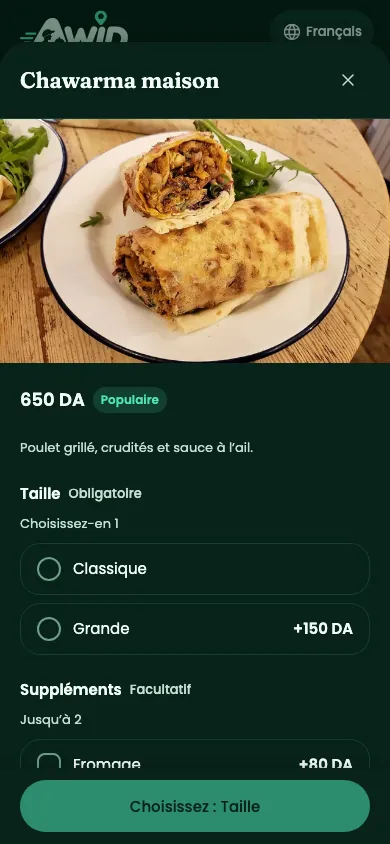
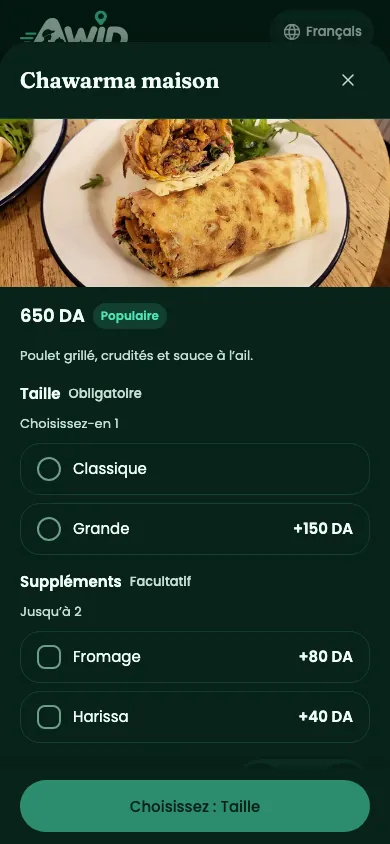
design: improve mobile ordering and expand pilot comparisons

diff --git a/apps/web/test/checkout-view.test.tsx b/apps/web/test/checkout-view.test.tsx
@@ -44,6 +44,7 @@ test("[CUS-13] step 1 shows progress, the fulfilment switch and saved addresses"
   // The step button carries the total, and desktop keeps the order summary beside the step.
   expect(html).toMatch(/>Continuer · 3\s100\sDA</u);
   expect(html).toContain('class="checkout-aside"');
+  expect(html).not.toContain('class="checkout-cash"');
 });
 
 test("[CUS-13] pickup checkout names the order mode in the page heading", () => {
@@ -72,6 +73,13 @@ test("[CUS-13] payment repeats the chosen address and scheduled time", () => {
   expect(html).toContain("12 rue Didouche Mourad, Alger Centre");
   expect(html).toContain("Pour quand ?");
   expect(html).toContain("Dès que possible");
+});
+
+test("[CUS-14] payment presents cash before the receipt in reading order", () => {
+  for (const locale of ["ar", "fr"] as const) {
+    const html = render(locale, <CheckoutSample mode="ready" locale={locale} initialView="3" />);
+    expect(html).toMatch(/class="checkout-cash"[\s\S]+class="checkout-receipt"/u);
+  }
 });
 
 test("[ORD-01] the confirmed moment shows the order code and links to tracking", () => {

diff --git a/apps/web/src/checkout/checkout-payment.tsx b/apps/web/src/checkout/checkout-payment.tsx
@@ -229,9 +229,8 @@ export function PaymentStep({ state, locale }: { state: CheckoutState; locale: L
         });
   return (
     <div className="checkout-step checkout-payment-step">
-      <h2>{translate("summary")}</h2>
       <section className="checkout-recap" aria-label={translate("recapTitle")}>
-        <h3>{translate("recapTitle")}</h3>
+        <h2>{translate("recapTitle")}</h2>
         <p>
           <Icon name={state.fulfilment === "pickup" ? "store" : "pin"} size={18} />
           <span>
@@ -253,12 +252,13 @@ export function PaymentStep({ state, locale }: { state: CheckoutState; locale: L
           </span>
         </p>
       </section>
+      <ContactPhone contact={state.contact} />
+      <CashCard state={state} locale={locale} />
+      <h2>{translate("summary")}</h2>
       <div className="checkout-receipt">
         <OrderLines state={state} locale={locale} />
         <PromoField state={state} />
       </div>
-      <ContactPhone contact={state.contact} />
-      <CashCard state={state} locale={locale} />
     </div>
   );
 }

diff --git a/apps/web/src/admin/gallery/before-after.tsx b/apps/web/src/admin/gallery/before-after.tsx
@@ -4,12 +4,22 @@ import type { Locale } from "@zaafran/i18n/locales";
 const screens = [
   "landing",
   "discover",
+  "search",
   "restaurant",
   "dish",
   "cart",
   "checkout",
   "payment",
   "account",
+  "confirmed",
+  "tracking",
+  "pickup-tracking",
+  "rating",
+  "orders",
+  "sign-in",
+  "merchant",
+  "courier",
+  "admin",
 ] as const;
 
 function variantsFor(locale: Locale) {

diff --git a/apps/web/src/checkout/checkout.css b/apps/web/src/checkout/checkout.css
@@ -139,7 +139,7 @@
   gap: var(--space-16);
 }
 
-.checkout-step h2,
+.checkout-step > h2,
 .checkout-aside h2 {
   font: var(--font-weight-h2) var(--font-size-h2) / var(--line-height-h2) var(--font-display);
 }
@@ -158,7 +158,7 @@
   box-shadow: var(--shadow-e1);
 }
 
-.checkout-recap h3 {
+.checkout-recap h2 {
   margin: 0;
   color: var(--color-text-2);
   font-size: var(--font-size-caption);

diff --git a/apps/web/src/restaurant/restaurant.css b/apps/web/src/restaurant/restaurant.css
@@ -482,6 +482,17 @@
 .restaurant-item-scroll > * {
   flex: none;
 }
+@media (max-width: 599px) {
+  .restaurant-item-scroll {
+    gap: var(--space-16);
+  }
+
+  .restaurant-item-scroll > .restaurant-dish-photo {
+    aspect-ratio: 2 / 1;
+    max-block-size: calc(var(--space-120) + var(--space-48));
+  }
+}
+
 .restaurant-quantity {
   display: flex;
   align-items: center;

diff --git a/docs/evidence/design-v2.md b/docs/evidence/design-v2.md
@@ -4,7 +4,7 @@ Base `pilot-1` at `e2b9a4a9`. The pilot preview and its design fixtures
 were captured at 390 px Arabic and French, 1280 px French, and 390 px
 French dark. The capture command produced 60 first-view images and 60
 full-page images for 15 entries, including the operations gallery.
-The [design gallery](/fr/dev/gallery) pairs landing and Discovery from
+The [design gallery](/fr/dev/gallery) pairs representative screens from
 the baseline and the revised build. Its route is restricted to builds
 with the design pages enabled.
 
@@ -109,8 +109,7 @@ the dish form mounted. Cart and dish before images were taken from the
 unchanged menu styles in the previous preview build.
 
 The critic scored Restaurant at 7.4–8.2 and the populated Cart at
-8.0–8.4. The first loaded Arabic Dish received 7.7; French loaded Dish
-scores are pending. Restaurant photos and menu search still push prices
+8.0–8.4. Loaded Dish scored 7.7–7.9 across all four variants. Restaurant photos and menu search still push prices
 close to the navigation on phones. The mobile sheet scrim and dark cart
 stepper need more separation, and the subtotal is repeated in the cart.
 
@@ -124,3 +123,95 @@ browser tests passed 82/82, national maps passed 4/4, and preview passed
 Next: critique the loaded dish and checkout/account captures, resolve
 the noted mobile issues, and review confirmed, tracking, orders, rating,
 sign-in and the individual operator screens.
+
+### Ordering review
+
+Independent scores for the pushed ordering checkpoint, before the
+subsequent mobile payment and dish corrections.
+
+| Screen | Arabic mobile | French mobile | French desktop | French dark mobile |
+| --- | ---: | ---: | ---: | ---: |
+| Dish | 7.7 | 7.9 | 7.9 | 7.7 |
+| Checkout | 7.4 | 7.7 | 8.1 | 7.5 |
+| Payment | 7.1 | 7.4 | 8.3 | 7.4 |
+| Account | 7.9 | 8.1 | 8.0 | 8.0 |
+
+The review identified cash controls below the mobile receipt, the first
+dish option partially obscured by the sticky button, and the account
+sound switch below the first viewport. The next pass moves cash before
+the receipt in reading order and reduces the mobile dish photo height
+and spacing. Re-capture those states before replacing the gallery files.
+
+The follow-up captures show the cash amount field above the sticky order
+button in Arabic at 390 px. The change amount still requires scrolling.
+Both optional dish rows show above the sticky button in French dark at
+390 px. The comparison gallery also includes the captured confirmation,
+delivery and pickup tracking, rating, orders and sign-in screens in
+the four variants. Those six baseline comparisons await their design
+passes and critic scores.
+
+The first verification attempt could not open local sockets for five
+worker tests. The run with loopback access advanced through every
+verification stage.
+
+### Status and operator capture
+
+The gallery now pairs the pilot and current merchant live board, courier
+active job and admin live-order list fixtures. It does not represent
+each screen in those workspaces.
+
+| Screen | Arabic mobile | French mobile | French desktop | French dark mobile |
+| --- | ---: | ---: | ---: | ---: |
+| Confirmation | 8.6 | 8.7 | 8.4 | 8.7 |
+| Delivery tracking fallback | 7.1 | 7.2 | 7.7 | 7.0 |
+| Pickup tracking | 8.4 | 8.5 | 8.0 | 8.1 |
+| Rating | 8.0 | 8.2 | 8.0 | 7.8 |
+| Orders | 7.9 | 7.8 | 8.1 | 7.8 |
+| Sign-in | 8.1 | 8.2 | 8.3 | 7.9 |
+
+The preview depicted fallback maps in all four delivery tracking
+captures. Prioritize a compact fallback that frees the first viewport
+for order status and ETA. Follow with clearer pickup directions, more
+compact active-order actions, consistent rating controls, stronger
+sign-in method selection and a quieter confirmation backdrop.
+
+The operator comparison used a fresh isolated build of `e2b9a4a9`.
+Earlier captures from a newer standalone build were discarded, and the
+admin captures were realigned to the live-order list. The critic scored
+these exact pilot-to-current comparisons as follows.
+
+| Screen | Arabic mobile | French mobile | French desktop | French dark mobile |
+| --- | ---: | ---: | ---: | ---: |
+| Merchant live board | 7.0 → 7.3 | 7.1 → 7.4 | 7.4 → 7.6 | 6.9 → 7.2 |
+| Courier active job | 7.6 → 7.8 | 7.5 → 7.7 | 7.8 → 8.0 | 7.4 → 7.7 |
+| Admin live-order list | 7.2 → 7.4 | 7.2 → 7.4 | 7.5 → 7.6 | 7.1 → 7.3 |
+
+Merchant needs stronger prioritization of ready orders when earlier
+stages are empty. The courier confirmation slider reads as disabled in
+light mode, and the pickup fixture has no street address. The admin
+sample has one order, so a crowded queue and its filters and
+interventions still need review.
+
+Chromium loaded 17 Arabic and 51 French comparison pairs, with every
+image decoded successfully. The loopback-enabled full verify rerun
+passed. The main browser matrix passed 127 tests with ten existing
+conditional skips. Connected Android LCP ranged from 1.580 to 1.816 s
+for Discovery and 1.532 to 1.584 s for Restaurant, both with CLS 0.
+
+Populated search results were captured from the exact pilot and current
+preview, in the same four variants. The final payment patch confines
+the cash reorder to step three and gives both recap sections a
+second-level heading. Ten focused checkout tests passed, including
+cash reading order in Arabic and French and the absence of cash controls
+on step one.
+
+The complete gallery browser check decoded all 18 Arabic and 54 French
+pairs. The same check confirmed the cash amount is visible above the
+sticky action at 390 px in Arabic and French, and verified heading and
+reading order on the payment step. The preceding browser matrix also
+passed 82 authenticated tests, four national map tests and three
+preview tests. The final heading and step-one regression corrections
+were made after the initial browser build.
+
+Next: repeat the exact-source gates, then refine delivery tracking's
+fallback and pickup directions without introducing layout shifts.
